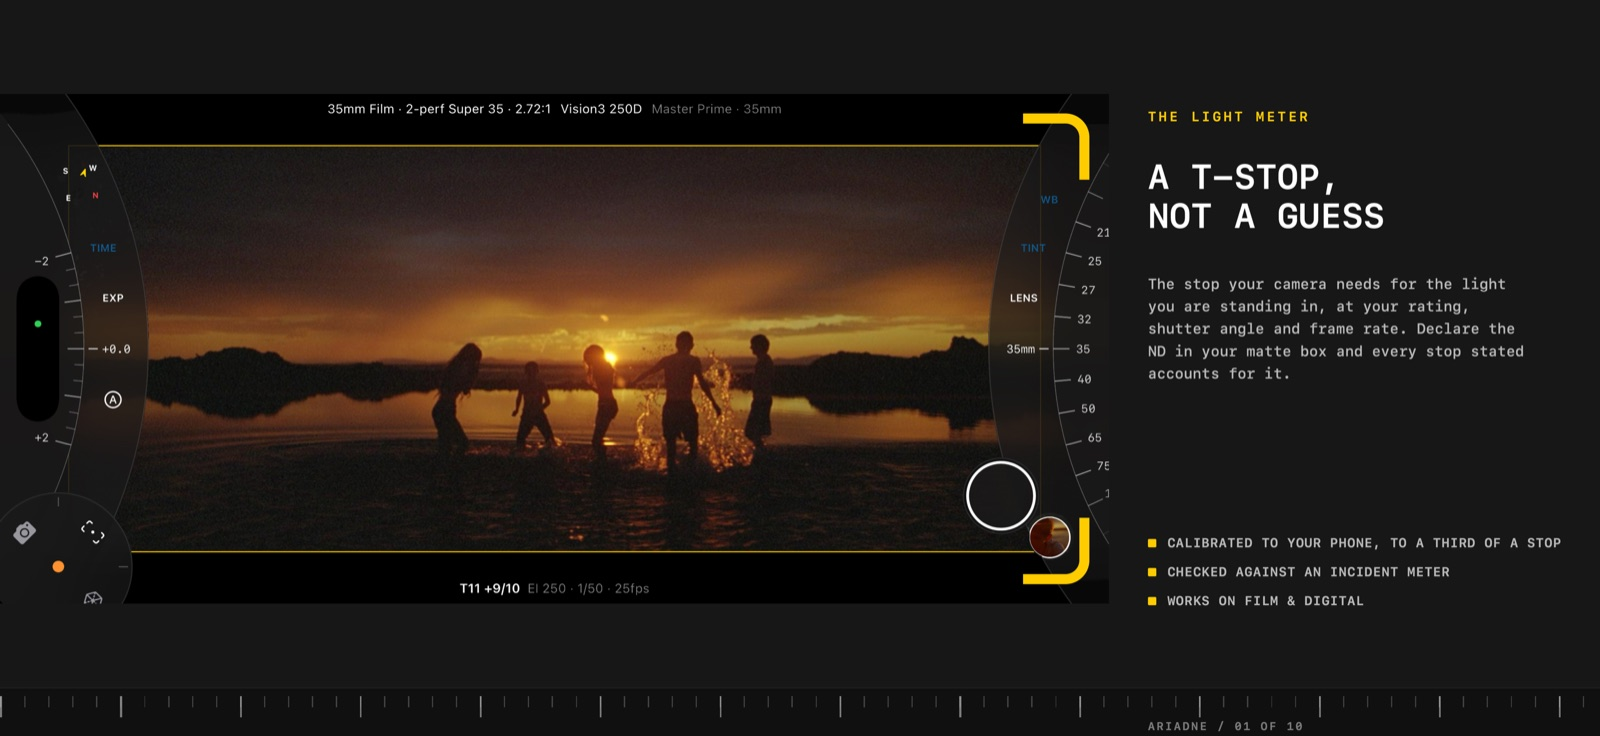
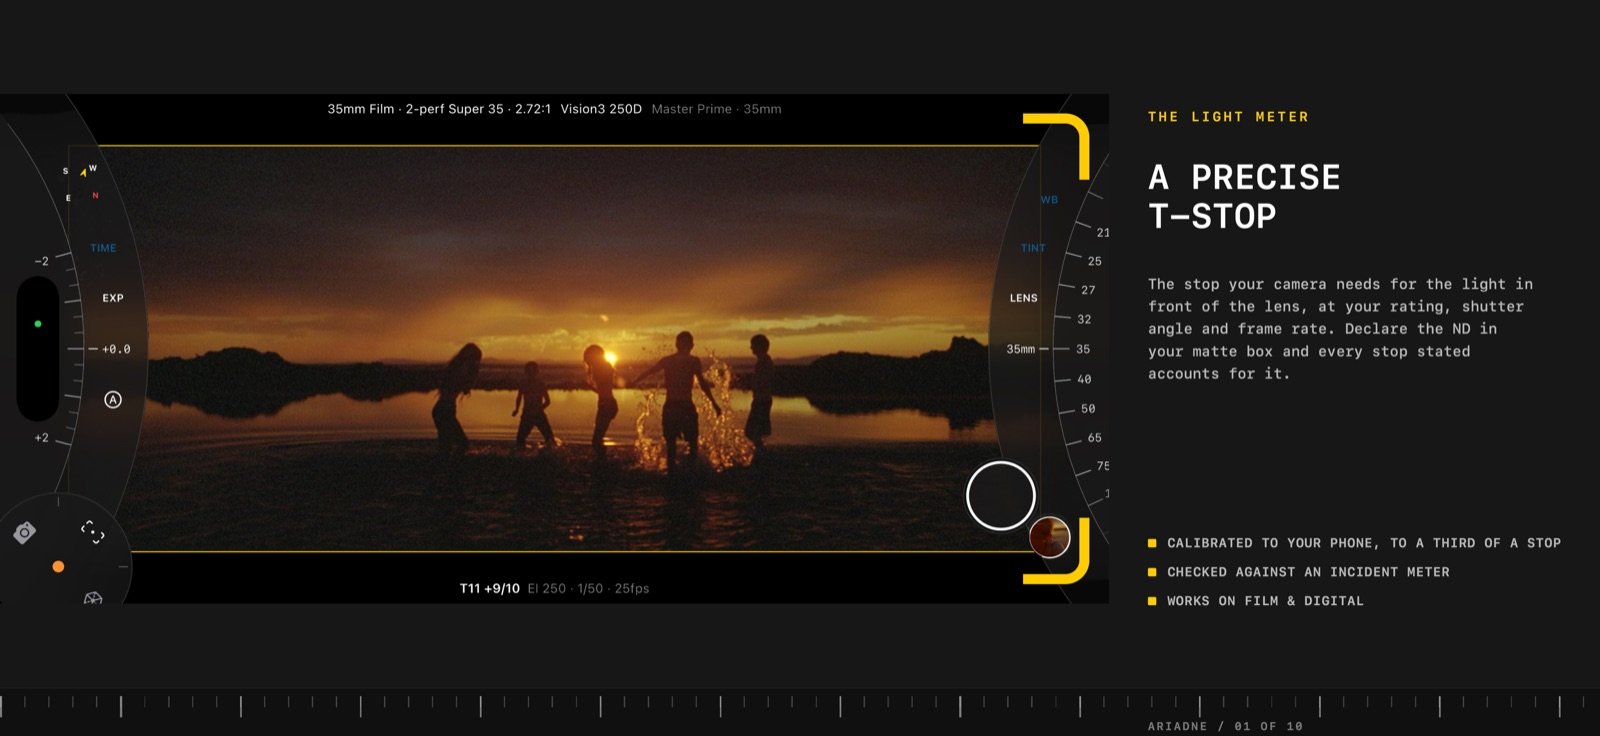
Update from the launch material: assets, index.html, press.html.

Changed region(s): [[0.7188, 0.4062, 0.9688, 0.5], [0.7188, 0.2188, 0.875, 0.3125]]

diff --git a/press.html b/press.html
@@ -134,7 +134,7 @@
       <div>
         <h2>Ariadne puts a light meter, false colour on film, ARRI look files and AR blocking on the iPhone Pro</h2>
         <p class="lede">A T-stop meter that holds to a third of a stop against an incident meter, false colour read off a film stock at its box speed, ARRI look files imported with no round trip through the Reference Tool, and AR blocking with lighting-grade stand-ins at true height. Underneath sit the viewfinder at real sensor modes, the lens catalogue and the sun path. Built by a working cinematographer for the iPhone Pro; one purchase, no subscription.</p>
-        <p>LONDON, September 2026. Jake Scott Studio today released Ariadne, an iPhone Pro app that does four things a director&#x27;s viewfinder app does not: it meters the light to about a third of a stop, it reads false colour off a film stock, it imports ARRI look files directly, and it blocks the scene in AR with lighting-grade stand-ins at true height. It also has what a scout expects: the viewfinder at real sensor modes, the lens catalogue and the sun path. A working cinematographer built it, and it is on the App Store now at £99.99 in the UK, with local pricing elsewhere as a single purchase.</p><p>A band beneath the picture shows a live T-stop for the light in front of the lens, at the selected rating, shutter angle and frame rate. Declare the ND in the matte box and every stop accounts for it. The reading is tested against an incident meter and holds to about a third of a stop, and it can be calibrated against your own meter. Hold the exposure and the control wheel becomes an iris ring marked in real T-stops that re-exposes the sensor, so a location can be walked at one stop the way it is walked on film: a bright room reads over, a dark corner under.</p><p>A film camera has no waveform and no false colour, so there is no way to see what the negative is doing. Ariadne gives it false colour. On a film body, touch and hold the picture and the frame paints by exposure in stops from mid grey, read against the selected stock at its box speed. Roll the exposure wheel until the bands sit where you expect across a face, and the band states the T-stop to set on the lens. The scale has no over-exposure colour, on purpose: the phone&#x27;s sensor clips several stops before a negative does, and a red band would report the phone&#x27;s limit as the shot&#x27;s. It does let you establish where your mid-tones and shadows are, and keep a mental picture of your lighting contrast as you move through a shoot.</p><p>The Look sheet imports ARRI Look Files in .alf4 and .aml directly, alongside .cube, so the looks a job is using can be seen on the location itself with no round trip through the ARRI Reference Tool. Each look is rendered in the colour science it was authored for and shown beside its response curve, with a stated figure for where 18% grey lands. Eight film stocks, Vision3 50D, 250D, 200T and 500T, Verita 200D, Vision 320T, Ektachrome 100D and Double-X, are built from the manufacturers&#x27; published data; negatives are shown as lab-corrected prints, reversal uncorrected under the light you stand in.</p><p>The viewfinder is the one the trade knows. The operator selects a body from seven ARRI models, two Sony Venice models and three film formats, a sensor mode at its real recorded area and aspect ratio, and a lens from a searchable catalogue of real sets, spherical and anamorphic, and the picture is cropped to that field of view. Where a lens set carries image circle data, Ariadne states whether it covers the sensor; where there is no published figure, nothing is drawn.</p><p>Ariadne also blocks the scene in AR. Here, high-resolution, lighting-grade stand-ins are placed at true height on the real floor, seen through the selected lens and occluded by the real foreground, with backings dressed from the photo library, vehicles, interior cutaways, tables and seating. A production&#x27;s own actor can be scanned with LiDAR and placed as a double.</p><p>The sun is scrubbed through the day a quarter of an hour at a time and drawn across the frame, and in AR it drives the direction, colour temperature and shadows of the scene lighting. A top-down Plan View plots the camera, its real field of view, every figure with its facing and the day&#x27;s solar arc; saved beside the photograph it adds a scale bar and lens to subject distances, to hand the blocking to other departments. All of it is built to be fast enough for a scout or a shooting day: just enough, quickly, rather than a full previsualisation tool.</p><p>Some things Ariadne does not do, on purpose. A declared filter does not darken the picture; it slides the marked scale, which is what a filter does to the stop you set. A digital body re-rated is a declaration, and the stop follows it. A film stock re-rated is a decision to expose the negative away from its box speed, so the stop moves and the picture, rendered at box speed, stays put; Ariadne says so rather than quietly moving the picture to match. A spot meter was built and then removed, because too much of a scene read as uncertain for it to be relied on. Where there is no data, nothing is drawn; there are no placeholders. Each handset can measure the true field of view of its own cameras and match them to one another against a grey card, so the framing and the stop are measured on that phone rather than taken from a specification.</p><blockquote><p>&quot;Every figure it shows is one I would stand behind on set,&quot; said Jake Scott, the cinematographer who built it. &quot;Where the phone cannot give an honest reading, it says so and gives the reason.&quot;</p></blockquote>
+        <p>LONDON, September 2026. Jake Scott Studio today released Ariadne, an iPhone Pro app that does four things a director&#x27;s viewfinder app does not: it meters the light to about a third of a stop, it reads false colour off a film stock, it imports ARRI look files directly, and it blocks the scene in AR with lighting-grade stand-ins at true height. It also has what a scout expects: the viewfinder at real sensor modes, the lens catalogue and the sun path. A working cinematographer built it, and it is on the App Store now at £99.99 in the UK, with local pricing elsewhere as a single purchase.</p><p>A band beneath the picture shows a live T-stop for the light in front of the lens, at the selected rating, shutter angle and frame rate. Declare the ND in the matte box and every stop accounts for it. The reading is tested against an incident meter and holds to about a third of a stop, and it can be calibrated against your own meter. Hold the exposure and the control wheel becomes an iris ring marked in real T-stops that re-exposes the sensor, so a location can be walked at one stop the way it is walked on film: a bright room reads over, a dark corner under.</p><p>A film camera has no waveform and no false colour, so there is no way to see what the negative is doing. Ariadne gives it false colour. On a film body, touch and hold the picture and the frame paints by exposure in stops from mid grey, read against the selected stock at its box speed. Roll the exposure wheel until the bands sit where you expect across a face, and the band states the T-stop to set on the lens. The scale has no over-exposure colour, on purpose: the phone&#x27;s sensor clips several stops before a negative does, and a red band would report the phone&#x27;s limit as the shot&#x27;s. It does let you establish where your mid-tones and shadows are, and keep a mental picture of your lighting contrast as you move through a shoot.</p><p>The Look sheet imports ARRI Look Files in .alf4 and .aml directly, alongside .cube, so the looks a job is using can be seen on the location itself with no round trip through the ARRI Reference Tool. Each look is rendered in the colour science it was authored for and shown beside its response curve, with a stated figure for where 18% grey lands. Eight film stocks, Vision3 50D, 250D, 200T and 500T, Verita 200D, Vision 320T, Ektachrome 100D and Double-X, are built from the manufacturers&#x27; published data; negatives are shown as lab-corrected prints, reversals uncorrected, keeping the cast of the light.</p><p>The viewfinder is the one the trade knows. The operator selects a body from seven ARRI models, two Sony Venice models and three film formats, a sensor mode at its real recorded area and aspect ratio, and a lens from a searchable catalogue of real sets, spherical and anamorphic, and the picture is cropped to that field of view. Where a lens set carries image circle data, Ariadne states whether it covers the sensor; where there is no published figure, nothing is drawn.</p><p>Ariadne also blocks the scene in AR. Here, high-resolution, lighting-grade stand-ins are placed at true height on the real floor, seen through the selected lens and occluded by the real foreground, with backings dressed from the photo library, vehicles, interior cutaways, tables and seating. A production&#x27;s own actor can be scanned with LiDAR and placed as a double.</p><p>The sun is scrubbed through the day a quarter of an hour at a time and drawn across the frame, and in AR it drives the direction, colour temperature and shadows of the scene lighting. A top-down Plan View plots the camera, its real field of view, every figure with its facing and the day&#x27;s solar arc; saved beside the photograph it adds a scale bar and lens to subject distances, to hand the blocking to other departments. All of it is built to be fast enough for a scout or a shooting day: just enough, quickly, rather than a full previsualisation tool.</p><p>Some things Ariadne does not do, on purpose. A declared filter does not darken the picture; it slides the marked scale, which is what a filter does to the stop you set. A digital body re-rated is a declaration, and the stop follows it. A film stock re-rated is a decision to expose the negative away from its box speed, so the stop moves and the picture, rendered at box speed, stays put; Ariadne says so rather than quietly moving the picture to match. A spot meter was built and then removed, because too much of a scene read as uncertain for it to be relied on. Where there is no data, nothing is drawn; there are no placeholders. Each handset can measure the true field of view of its own cameras and match them to one another against a grey card, so the framing and the stop are measured on that phone rather than taken from a specification.</p><blockquote><p>&quot;Every figure it shows is one I would stand behind on set,&quot; said Jake Scott, the cinematographer who built it. &quot;Where the phone cannot give an honest reading, it says so and gives the reason.&quot;</p></blockquote>
       </div>
     </section>
 

diff --git a/index.html b/index.html
@@ -187,7 +187,7 @@
     <section class="row">
       <div class="eyebrow">Light meter</div>
       <div>
-        <p>Ariadne states the T-stop your camera needs for the light you stand in, at your rating, shutter angle and frame rate, and holds it to about a third of a stop against an incident meter. Declare the ND in your matte box and every stop accounts for it.</p>
+        <p>Ariadne states the T-stop your camera needs for the light in front of the lens, at your rating, shutter angle and frame rate, and holds it to about a third of a stop against an incident meter. Declare the ND in your matte box and every stop accounts for it.</p>
         <p>Hold the exposure and the wheel becomes an iris ring in T-stops that re-exposes the sensor, so a location can be walked at one stop the way it is walked on film: a bright room reads over, a dark corner under.</p>
       </div>
     </section>
@@ -204,7 +204,7 @@
       <div class="eyebrow">Look files</div>
       <div>
         <p>Import .cube, and camera look files in .alf4 and .aml, with no round trip through the maker&#x27;s reference tool. Each look renders in the colour science it was authored for. The sheet shows the graded picture, the response curve, and where 18% grey lands.</p>
-        <p>Eight film stocks are built from the manufacturers&#x27; published data. Negatives are shown as lab-corrected prints, reversals uncorrected under the light you stand in.</p>
+        <p>Eight film stocks are built from the manufacturers&#x27; published data. Negatives are shown as lab-corrected prints, reversals uncorrected, keeping the cast of the light.</p>
       </div>
     </section>
 
